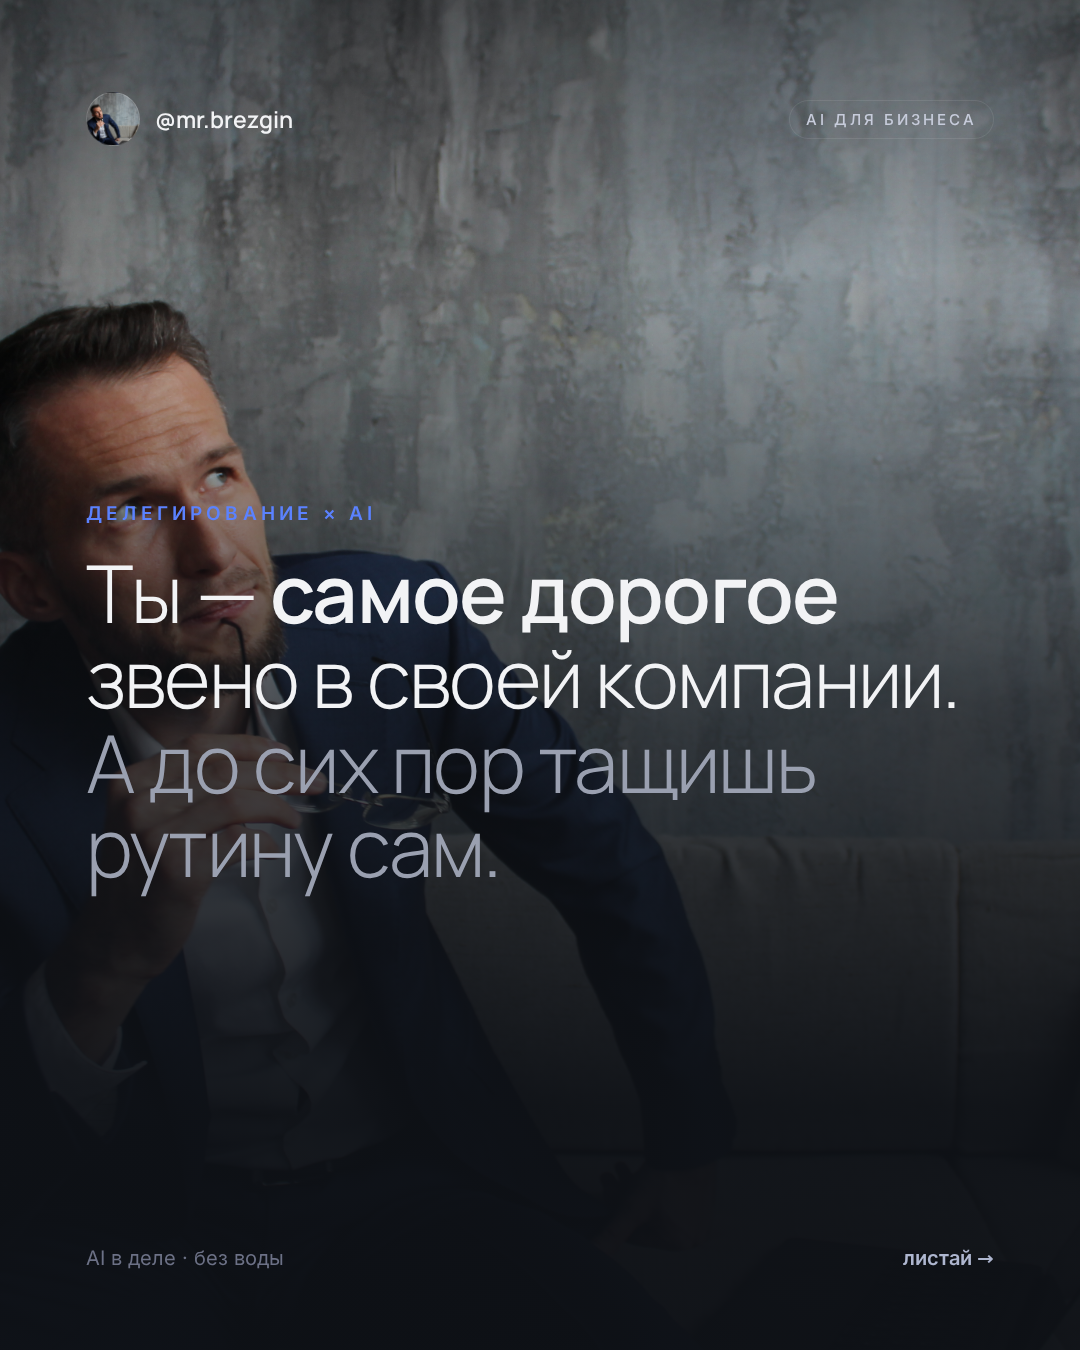
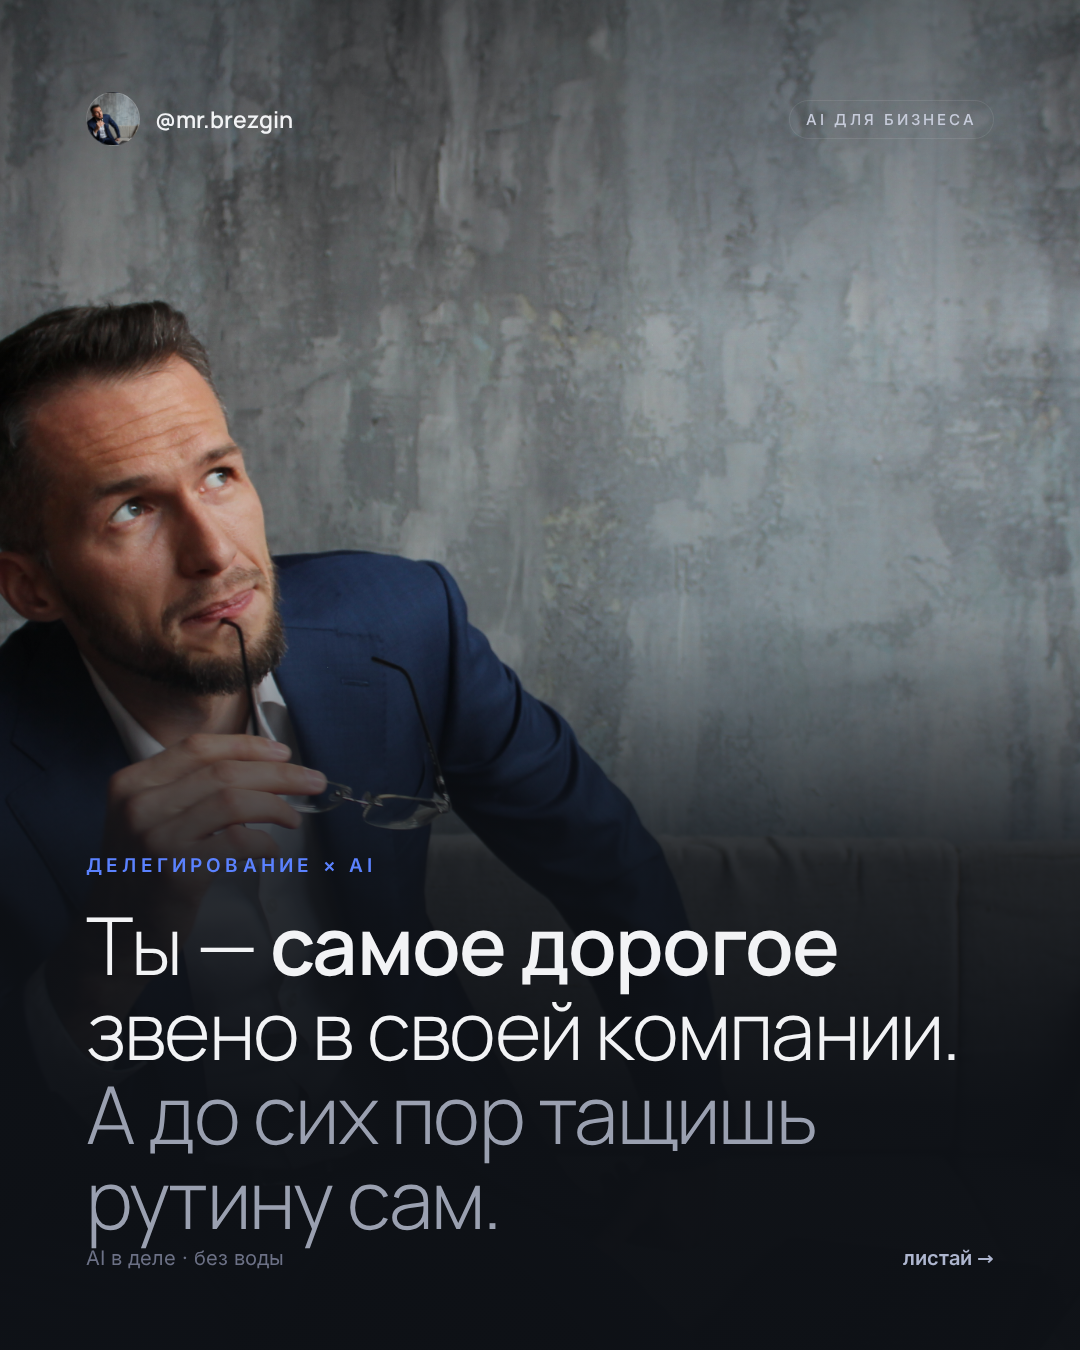
Обложка и слайд 05: текст опущен под лицо

Changed region(s): [[0.0611, 0.2489, 1.0, 0.9333], [0.0, 0.4356, 0.0306, 0.4667]]

diff --git a/delegation.html b/delegation.html
@@ -18,6 +18,6 @@ a{color:#5b82ff}.lk{display:block;text-align:center;margin-top:18px;font-size:13
 <div id="lb" onclick="this.classList.remove('on')"><img id="li"></div>
 <script>
 const r=document.getElementById('r');
-const V='?v=20260624b';
+const V='?v=20260624c';
 for(let i=1;i<=7;i++){const p='delegation/'+String(i).padStart(2,'0')+'.png'+V;const im=new Image();im.src=p;im.onclick=()=>{document.getElementById('li').src=p;document.getElementById('lb').classList.add('on')};r.appendChild(im);}
 </script></body></html>